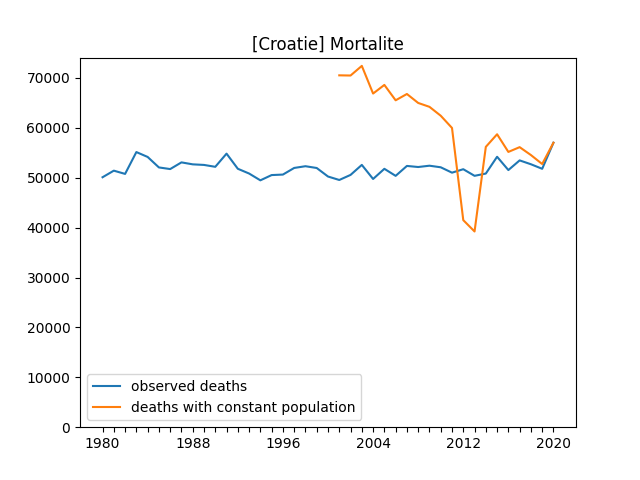
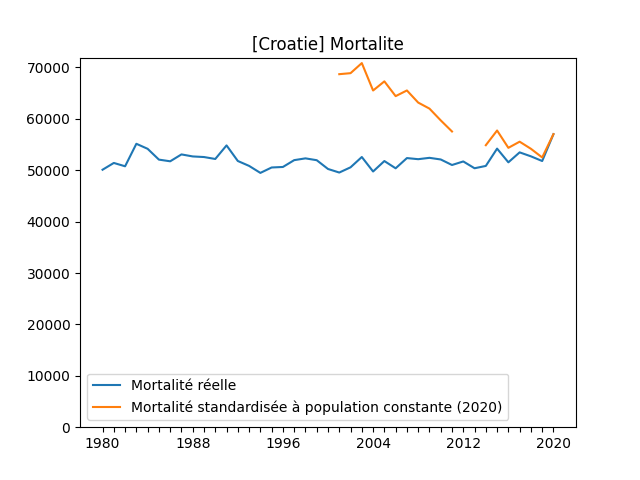
eurostat: discard unsufficient data + sum age > 90 together

diff --git a/eurostat/run.py b/eurostat/run.py
@@ -7,6 +7,7 @@ import click
 import gzip
 import shutil
 import sqlite3
+import collections
 import csv
 import re
 import matplotlib.pyplot as plt
@@ -42,8 +43,8 @@ FILE_CONFS = [
 ]
 
 COUNTRY_CODES = {
-    # "AL":"Albanie",   # Missing data
-    #"AM": "Arménie",   # Missing data
+    "AL":"Albanie",   # Missing data
+    "AM": "Arménie",   # Missing data
     "AT": "Autriche",
     "AZ": "Azerbaïdjan",
     "BG": "Bulgaria",
@@ -54,14 +55,14 @@ COUNTRY_CODES = {
     "ES": "Espagne",
     "FR": "France",
     "FI": "Finlande",
-    #"GE": "Géorgie",   # Missing data
+    "GE": "Géorgie",   # Missing data
     "HR": "Croatie",
     "HU": "Hongrie",
     "IE": "Irlande",
     "IT": "Italie",
     "LT": "Lituanie",
     "LV": "Lettonie",
-    #"MD": "Moldavie",   # Missing data
+    "MD": "Moldavie",   # Missing data
     "MK": "Macédoine du Nord",
     "NL": "Pays-Bas",
     "NO": "Norvège",
@@ -69,17 +70,19 @@ COUNTRY_CODES = {
     "PT": "Portugal",
     "RO": "Roumanie",
     "RS": "Serbie",
-    #"RU": "Russie",   # Missing data
+    "RU": "Russie",   # Missing data
     "SE": "Suède",
     "SI": "Slovénie",
     "SK": "Slovaquie",
     "TR": "Turquie",
-    "UA": "Ukraine"
-    #"UK": "Royaume-Uni",  # no 2020 population !
-    #"XK": "Kosovo"   # Missing data
+    "UA": "Ukraine",
+    "UK": "Royaume-Uni",  # no 2020 population !
+    "XK": "Kosovo"   # Missing data
 }
 
-YEARS = range(2010, 2020+1)
+AGE_MAX = 90  # after 90, data are less significant, and numbers should be summed together
+
+#YEARS = range(2010, 2020+1)
 
 
 @click.group()
@@ -133,21 +136,21 @@ def import_data():
         _import_deaths_age_sex(conn)
 
 def _import_population(conn):
-    db_rows = []
+    vals = collections.defaultdict(int)
     with open(os.path.join(DATA_DIR, "population_age_sex.tsv"), newline='') as csvf:
         for row in csv.DictReader(csvf, delimiter='\t'):
             ind, age, sex, geo = row["unit,age,sex,geo\\time"].split(",")
             age = _parse_age(age)
             if ind == "NR" and sex != 'T' and age:
                 for year in range(1960, 2021+1):
-                    db_rows.append({
-                        "geo": geo,
-                        "year": year,
-                        "sex": sex,
-                        "age": age,
-                        "value": _parse_int(row[f"{year} "])
-                    })
-    _db_bulk_insert(conn, "population_age_sex", db_rows)
+                    vals[(geo, year, sex, age)] += _parse_int(row[f"{year} "])
+    _db_bulk_insert(conn, "population_age_sex", [{
+        "geo": geo,
+        "year": year,
+        "sex": sex,
+        "age": age,
+        "value": val
+    } for (geo, year, sex, age), val in vals.items()])
 
 # def _import_population(conn):
 #     db_rows = []
@@ -163,21 +166,21 @@ def _import_population(conn):
 #     _db_bulk_insert(conn, "population", db_rows)
 
 def _import_deaths_age_sex(conn):
-    db_rows = []
+    vals = collections.defaultdict(int)
     with open(os.path.join(DATA_DIR, "deaths_age_sex.tsv"), newline='') as csvf:
         for row in csv.DictReader(csvf, delimiter='\t'):
             ind, sex, age, geo = row["unit,sex,age,geo\\time"].split(",")
             age = _parse_age(age)
             if ind == "NR" and sex != 'T' and age:
                 for year in range(1960, 2019+1):
-                    db_rows.append({
-                        "geo": geo,
-                        "year": year,
-                        "sex": sex,
-                        "age": age,
-                        "value": _parse_int(row[f"{year} "])
-                    })
-    _db_bulk_insert(conn, "deaths_age_sex", db_rows)
+                    vals[(geo, year, sex, age)] += _parse_int(row[f"{year} "])
+    _db_bulk_insert(conn, "deaths_age_sex", [{
+        "geo": geo,
+        "year": year,
+        "sex": sex,
+        "age": age,
+        "value": val
+    } for (geo, year, sex, age), val in vals.items()])
 
 def _import_deaths(conn):
     db_rows = []
@@ -227,27 +230,32 @@ def _parse_int(val):
     return int(val)
 
 def _parse_age(val):
-    if val == 'Y_OPEN': return 100
+    if val == 'Y_OPEN': return AGE_MAX
     if val == 'Y_LT1': return 0
     val = re.sub("[^0-9]", "", val)
     if not val: return None
-    return int(val)
+    return min(int(val), AGE_MAX)
 
 
 @main.command("plot_deaths")
 @click.option("--start")
-def cmd_plot_deaths(start):
-    plot_deaths(start)
+@click.option("--country")
+def cmd_plot_deaths(*args, **kwargs):
+    plot_deaths(*args, **kwargs)
 
-def plot_deaths(start=None):
+def plot_deaths(start=None, country=None):
+    country_filter = country
     if not start: start = 1980
-    ages = range(0, 100+1)
+    ages = range(0, AGE_MAX+1)
     years_2019 = range(start, 2019+1)
     years_2020 = range(start, 2020+1)
     with db_connect() as conn:
+        nb_country_ok = 0
         for code, country in COUNTRY_CODES.items():
+            if country_filter and code != country_filter:
+                continue
             try:
-                print(f"Plot deaths of {code}")
+                print(f"Plot deaths of {code} ({country})")
                 rows = conn.execute((
                     "SELECT year, age, SUM(value) "
                     "FROM population_age_sex "
@@ -258,6 +266,12 @@ def plot_deaths(start=None):
                 pops = {}
                 for year, age, value in rows:
                     pops.setdefault(year, {})[age] = value or 0
+                # if a year have too much holes: clean it (it will cancel estimation)
+                for year in years_2020:
+                    nb_nulls = sum(1 for a in ages if pops[year].get(a,0) == 0)
+                    if nb_nulls >= 5:
+                        for age in ages:
+                            pops[year][age] = 0
                 rows = conn.execute((
                     "SELECT year, age, SUM(value) "
                     "FROM deaths_age_sex "
@@ -292,36 +306,42 @@ def plot_deaths(start=None):
                     }
                     for year in years_2019
                 }
-                # mean_death_rates = {
-                #     age: mean(death_rates[year][age] for year in years_2019)
-                #     for age in ages
-                # }
-                # expected_deaths = [
-                #     sum(int(mean_death_rates.get(age,0)*pops[year].get(age,0)) for age in ages)
-                #     for year in years_2020
-                # ]
                 real_deaths = [
                     total_deaths[year] or None
                     for year in years_2020
                 ]
                 simulated_deaths = [
-                    sum(int( death_rates[year].get(age,0) * pops[2020].get(age,0) ) for age in ages) * deaths_correction[year] or None
+                    sum(
+                        int( death_rates[year].get(age,0) * pops[2020].get(age,0) )
+                        for age in ages
+                    ) * deaths_correction[year] or None
                     for year in years_2019
                 ]
+                if not total_deaths.get(2020):
+                    print("  WARNING: unsufficient data (no 2020 real deaths)")
+                    continue
+                if len([d for d in real_deaths if d is not None]) < 10:
+                    print("  WARNING: unsufficient data (less than 10 years for real deaths)")
+                    continue
+                if len([d for d in simulated_deaths if d is not None]) < 10:
+                    print("  WARNING: unsufficient data (less than 10 years for simulated deaths)")
+                    continue
                 nb_xticks, nb_years = 5, len(years_2020)
                 xticks_period = math.floor(nb_years/nb_xticks)
                 _plot(f"[{country}] Mortalite",
                     years_2020,
                     {
-                        "observed deaths": real_deaths,
-                        "deaths with constant population": simulated_deaths+[total_deaths[2020]]
+                        "Mortalité réelle": real_deaths,
+                        f"Mortalité standardisée à population constante (2020)": simulated_deaths+[total_deaths[2020]]
                     },
                     f'{code}_deaths.png',
                     axis=[None, None, 0, None],
                     xticks=[y if (2020-y) % xticks_period == 0 else None for y in years_2020]
                 )
+                nb_country_ok += 1
             except Exception:
                 traceback.print_exc()
+        print(f"Nb countries successfully computed: {nb_country_ok}/{len(COUNTRY_CODES)}")
 
 
             # for year in range(start, 2019+1):

diff --git a/eurostat/README.md b/eurostat/README.md
@@ -1,3 +1,21 @@
+Ceci est un programme open source visant à estimer la dangerosité du covid en comparant la mortalité de l'année 2020 par rapport aux années précédentes.
+
+Ce programme est basé sur des données tirées de Eurostat.
+
+Etant donné que les populations évoluent (et dans la plupart des cas, en Europe, vieillissent), leurs mortalités évoluent également.
+Pour donc pleinement évaluer l'exceptionnel gravité de l'année 2020 en terme de mortalité, il faut reculaculer (standardiser) la mortalité de chaque année sur la base d'une population constante.
+Ici c'est l'année 2020 qui est pris comme année de référence pour ce calcul.
+
+
+## Albanie
+
+![Albanie](results/AL_deaths.png)
+
+
+## Arménie
+
+![Arménie](results/AM_deaths.png)
+
 
 ## Autriche
 
@@ -49,6 +67,11 @@
 ![Finlande](results/FI_deaths.png)
 
 
+## Géorgie
+
+![Géorgie](results/GE_deaths.png)
+
+
 ## Croatie
 
 ![Croatie](results/HR_deaths.png)
@@ -77,6 +100,11 @@
 ## Lettonie
 
 ![Lettonie](results/LV_deaths.png)
+
+
+## Moldavie
+
+![Moldavie](results/MD_deaths.png)
 
 
 ## Macédoine du Nord
@@ -114,6 +142,11 @@
 ![Serbie](results/RS_deaths.png)
 
 
+## Russie
+
+![Russie](results/RU_deaths.png)
+
+
 ## Suède
 
 ![Suède](results/SE_deaths.png)
@@ -137,4 +170,14 @@
 ## Ukraine
 
 ![Ukraine](results/UA_deaths.png)
+
+
+## Royaume-Uni
+
+![Royaume-Uni](results/UK_deaths.png)
+
+
+## Kosovo
+
+![Kosovo](results/XK_deaths.png)
 
